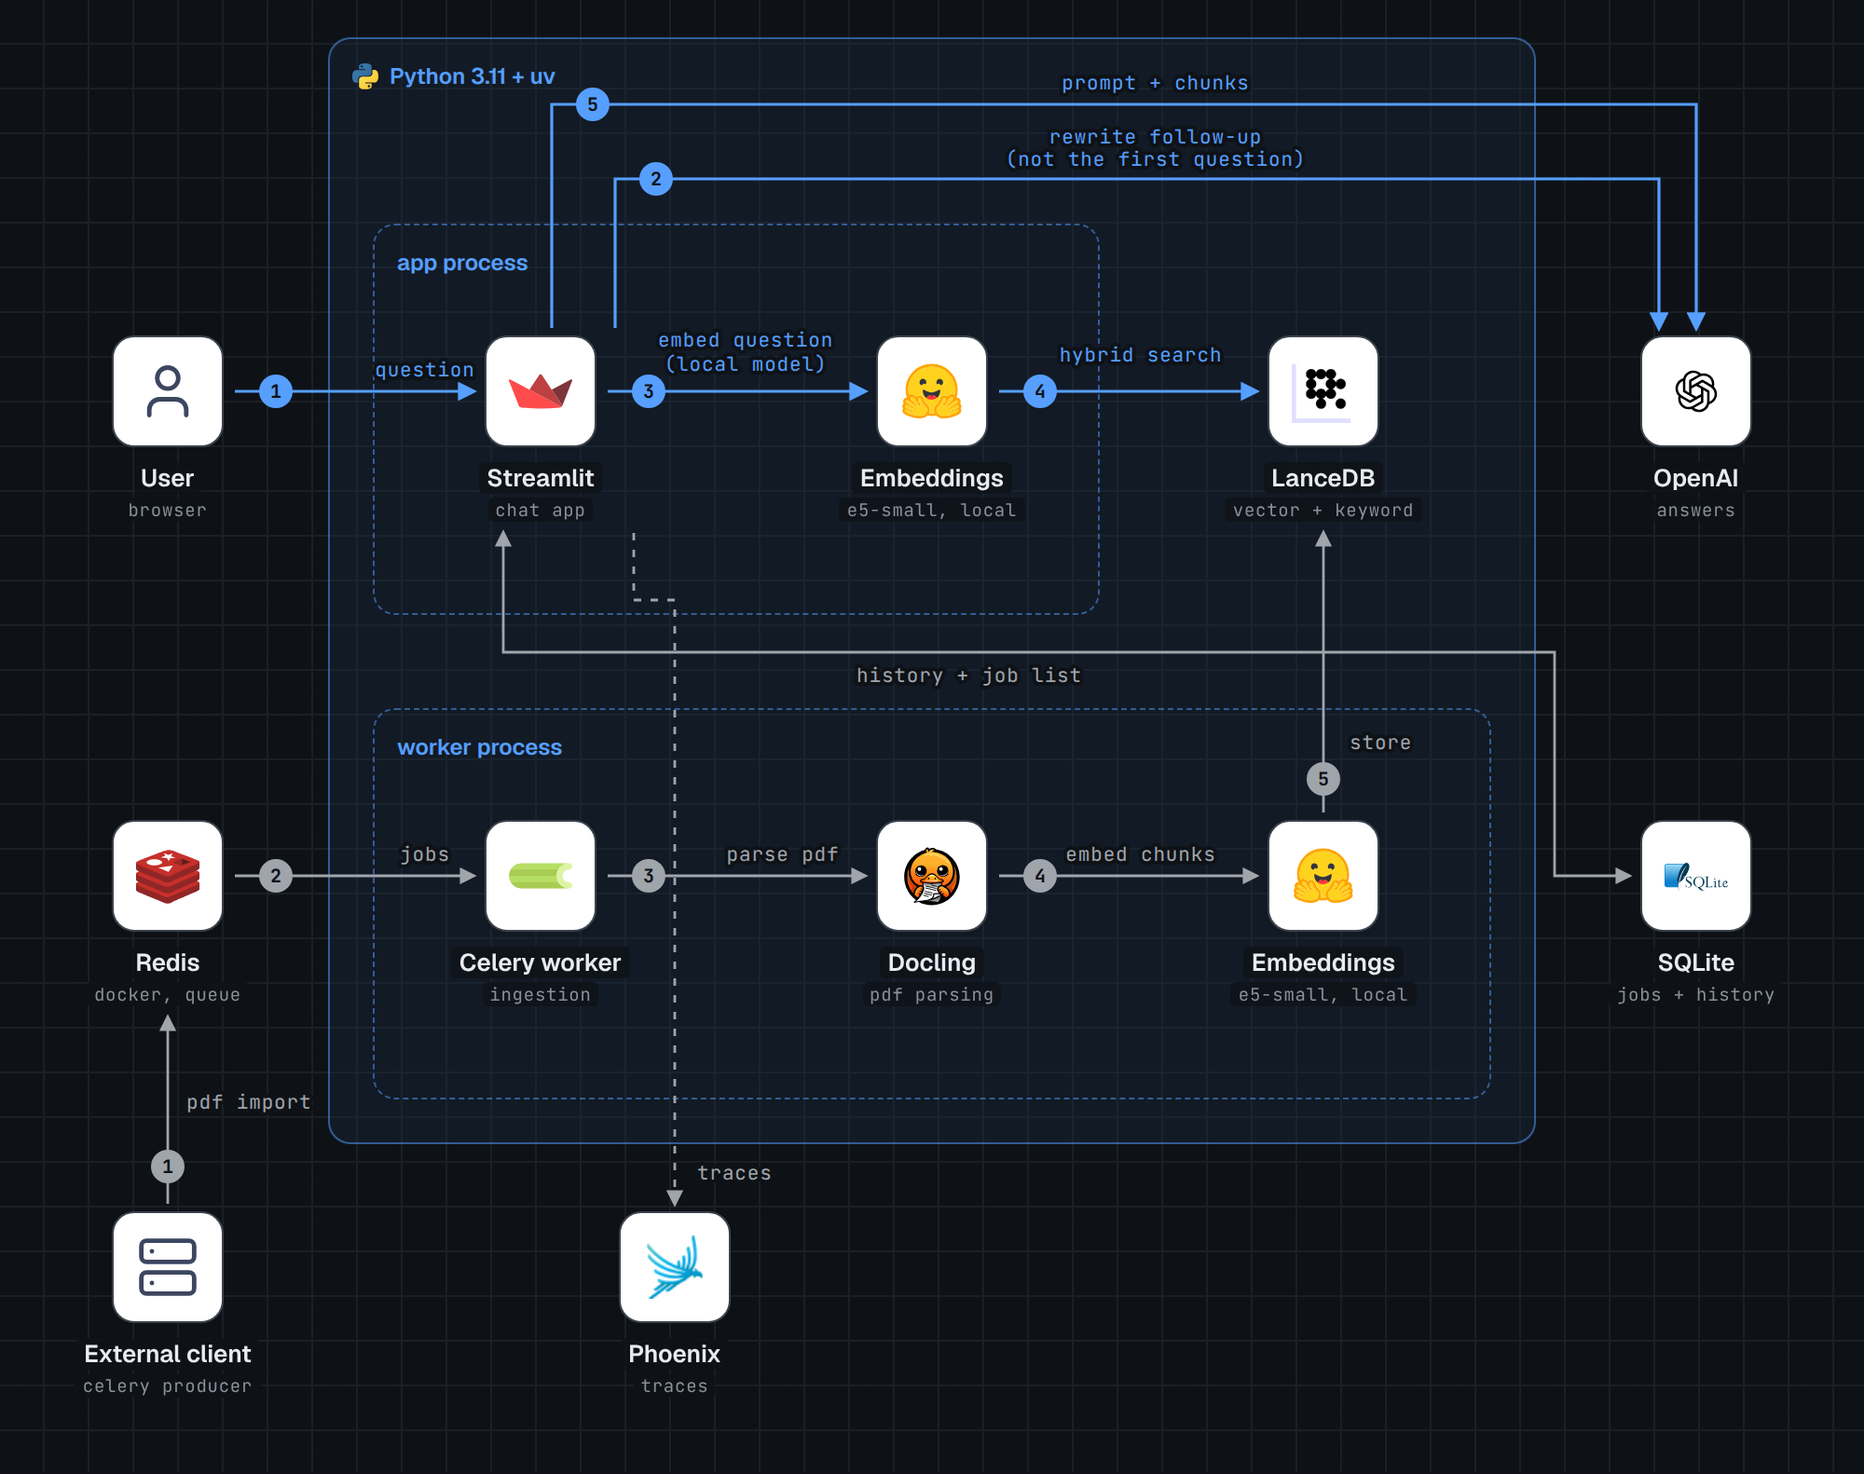
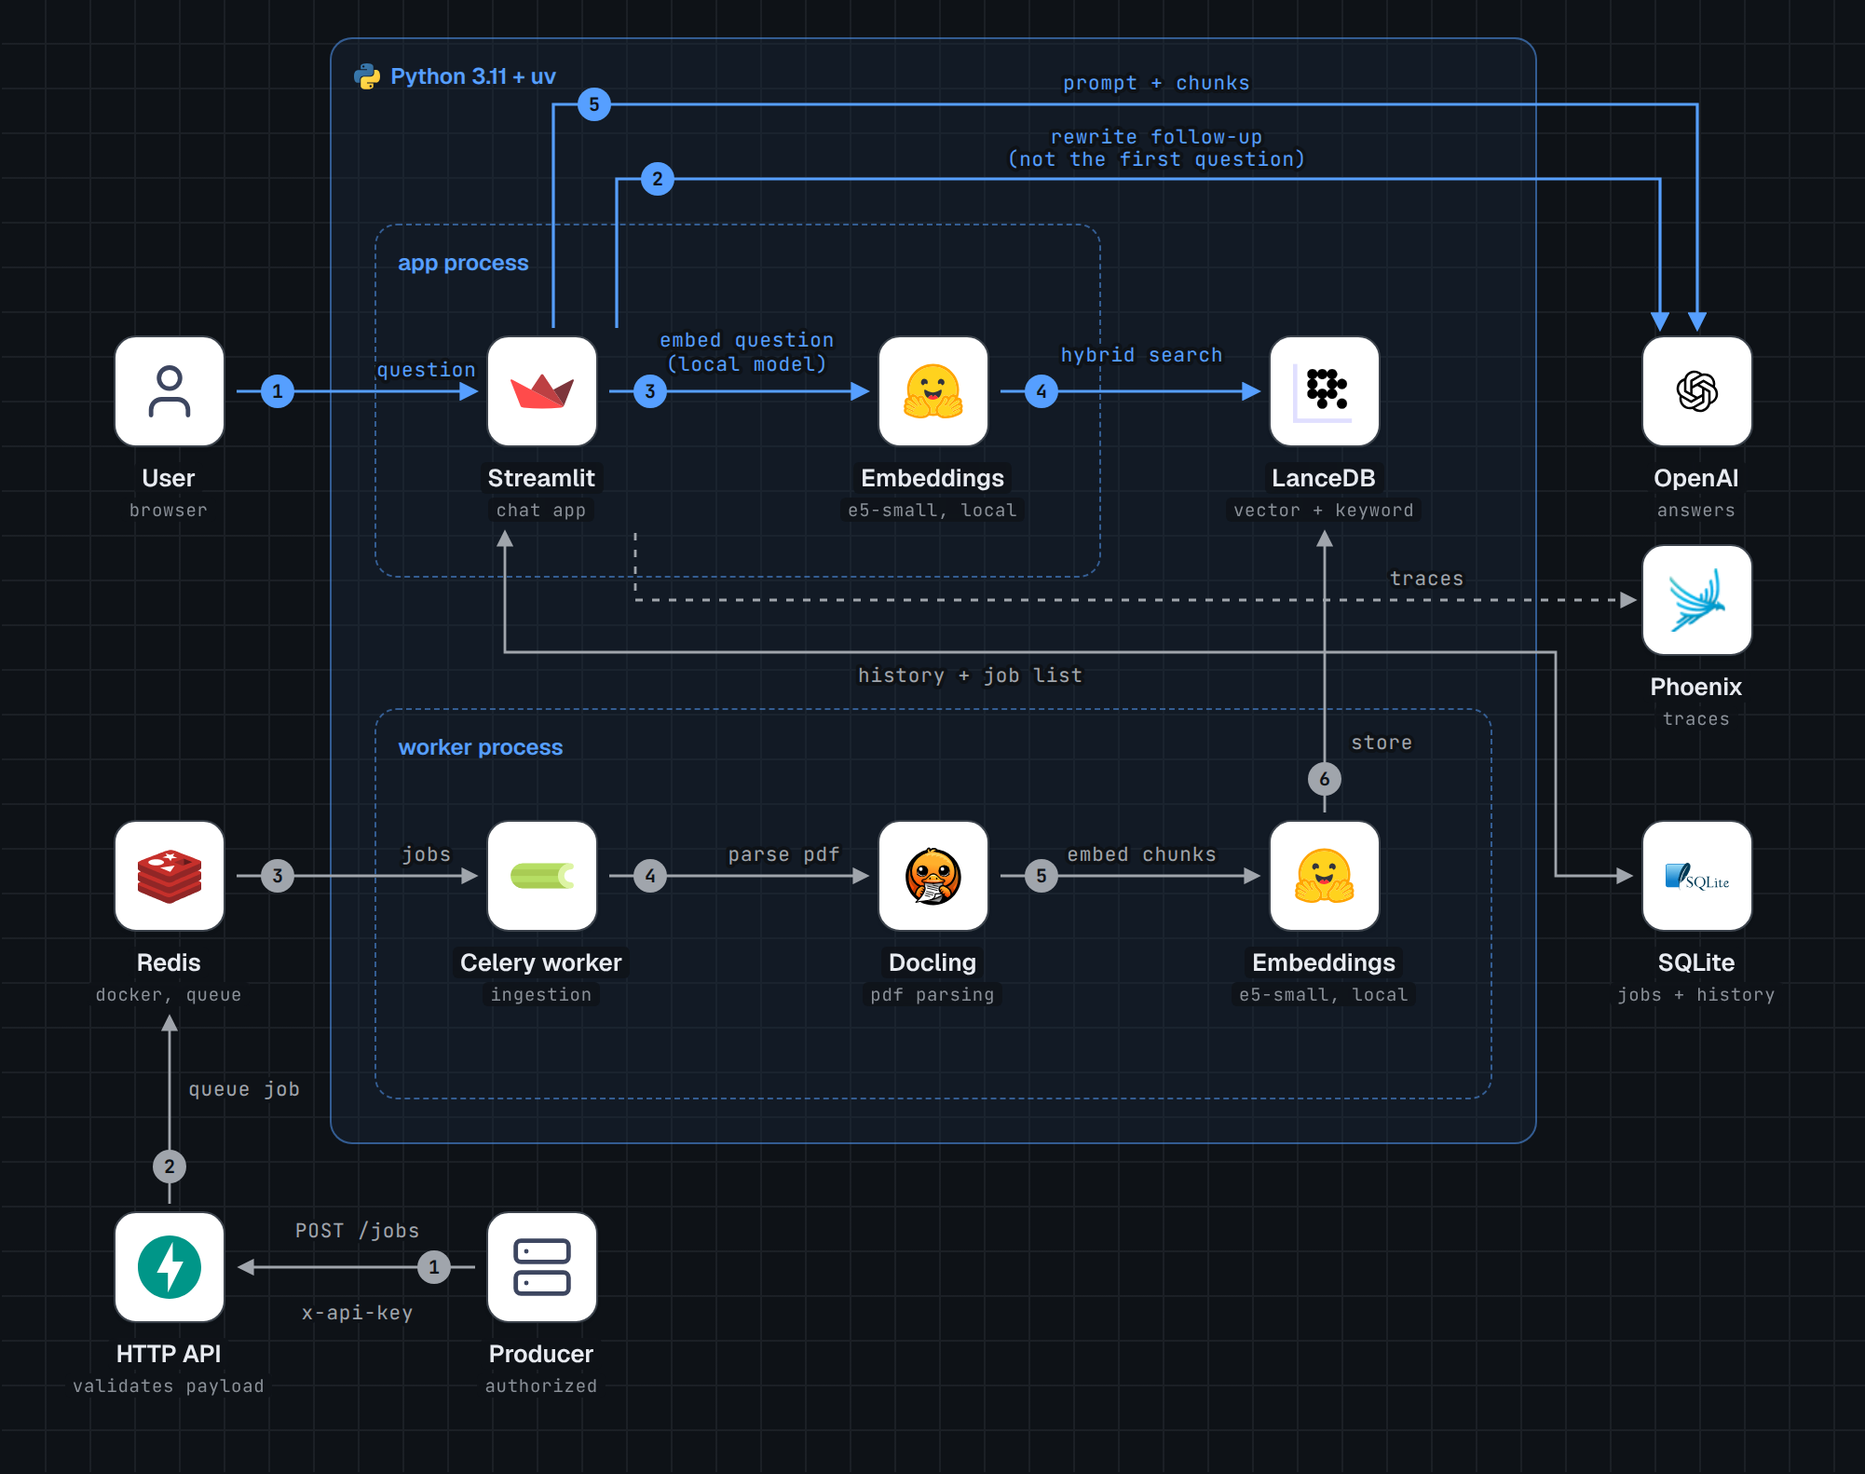
Add an API-key protected HTTP endpoint to queue jobs and keep Redis internal

diff --git a/diagrams/rag-stack.html b/diagrams/rag-stack.html
@@ -188,7 +188,7 @@ path.aws { stroke: var(--color-ink); stroke-width:1.6; fill:none; }
     <div class="group gb" style="left:176px; top:20px; width:648px; height:594px;">
[1 lines of base64/hex data omitted]
     </div>
-    <div class="group gb sub" style="left:200px; top:120px; width:390px; height:210px;">
+    <div class="group gb sub" style="left:200px; top:120px; width:390px; height:190px;">
       <div class="g-label">app process</div>
     </div>
     <div class="group gb sub" style="left:200px; top:380px; width:600px; height:210px;">
@@ -217,7 +217,10 @@ path.aws { stroke: var(--color-ink); stroke-width:1.6; fill:none; }
       <text class="el a" x="620" y="77" text-anchor="middle">rewrite follow-up</text>
       <text class="el a" x="620" y="89" text-anchor="middle">(not the first question)</text>
       <path class="n" d="M90 646 V546" marker-end="url(#ar)"/>
-      <text class="el" x="100" y="595">pdf import</text>
+      <text class="el" x="100" y="588">queue job</text>
+      <path class="n" d="M254 680 H128" marker-end="url(#ar)"/>
+      <text class="el" x="191" y="664" text-anchor="middle">POST /jobs</text>
+      <text class="el" x="191" y="708" text-anchor="middle">x-api-key</text>
       <path class="n" d="M126 470 H254" marker-end="url(#ar)"/>
       <text class="el" x="228" y="462" text-anchor="middle">jobs</text>
       <path class="n" d="M326 470 H464" marker-end="url(#ar)"/>
@@ -228,18 +231,19 @@ path.aws { stroke: var(--color-ink); stroke-width:1.6; fill:none; }
       <text class="el" x="724" y="402">store</text>
       <path class="n" d="M270 286 V350 H834 V470 H874" marker-start="url(#ar)" marker-end="url(#ar)"/>
       <text class="el" x="520" y="366" text-anchor="middle">history + job list</text>
-      <path class="n dash" d="M340 286 V322 H362 V646" marker-end="url(#ar)"/>
-      <text class="el" x="374" y="633">traces</text>
+      <path class="n dash" d="M340 286 V322 H876" marker-end="url(#ar)"/>
+      <text class="el" x="765" y="314" text-anchor="middle">traces</text>
       <circle class="bd a" cx="148" cy="210" r="9"/><text class="bn" x="148" y="210">1</text>
       <circle class="bd a" cx="352" cy="96" r="9"/><text class="bn" x="352" y="96">2</text>
       <circle class="bd a" cx="348" cy="210" r="9"/><text class="bn" x="348" y="210">3</text>
       <circle class="bd a" cx="558" cy="210" r="9"/><text class="bn" x="558" y="210">4</text>
       <circle class="bd a" cx="318" cy="56" r="9"/><text class="bn" x="318" y="56">5</text>
-      <circle class="bd" cx="90" cy="626" r="9"/><text class="bn" x="90" y="626">1</text>
-      <circle class="bd" cx="148" cy="470" r="9"/><text class="bn" x="148" y="470">2</text>
-      <circle class="bd" cx="348" cy="470" r="9"/><text class="bn" x="348" y="470">3</text>
-      <circle class="bd" cx="558" cy="470" r="9"/><text class="bn" x="558" y="470">4</text>
-      <circle class="bd" cx="710" cy="418" r="9"/><text class="bn" x="710" y="418">5</text>
+      <circle class="bd" cx="90" cy="626" r="9"/><text class="bn" x="90" y="626">2</text>
+      <circle class="bd" cx="232" cy="680" r="9"/><text class="bn" x="232" y="680">1</text>
+      <circle class="bd" cx="148" cy="470" r="9"/><text class="bn" x="148" y="470">3</text>
+      <circle class="bd" cx="348" cy="470" r="9"/><text class="bn" x="348" y="470">4</text>
+      <circle class="bd" cx="558" cy="470" r="9"/><text class="bn" x="558" y="470">5</text>
+      <circle class="bd" cx="710" cy="418" r="9"/><text class="bn" x="710" y="418">6</text>
     </svg>
 
     <div class="node" style="left:24px;top:180px">
@@ -283,10 +287,14 @@ path.aws { stroke: var(--color-ink); stroke-width:1.6; fill:none; }
       <div class="name"><span>SQLite</span></div><div class="role"><span>jobs + history</span></div>
     </div>
     <div class="node" style="left:24px;top:650px">
[1 lines of base64/hex data omitted]
-      <div class="name"><span>External client</span></div><div class="role"><span>celery producer</span></div>
[1 lines of base64/hex data omitted]
+      <div class="name"><span>HTTP API</span></div><div class="role"><span>validates payload</span></div>
     </div>
-    <div class="node" style="left:296px;top:650px">
+    <div class="node" style="left:224px;top:650px">
[1 lines of base64/hex data omitted]
+      <div class="name"><span>Producer</span></div><div class="role"><span>authorized</span></div>
+    </div>
+    <div class="node" style="left:844px;top:292px">
[1 lines of base64/hex data omitted]
       <div class="name"><span>Phoenix</span></div><div class="role"><span>traces</span></div>
     </div>
@@ -297,12 +305,12 @@ path.aws { stroke: var(--color-ink); stroke-width:1.6; fill:none; }
     <span><span class="sw"></span>request path</span>
     <span><span class="sw n"></span>internal</span>
     <span><span class="sw n dash"></span>dev / deploy</span>
-    <span>grey 1-5: add a PDF</span>
+    <span>grey 1-6: add a PDF</span>
     <span>blue 1-5: ask a question</span>
   </div>
 
   <div class="foot">
-    <span>rag-pipeline: Streamlit, Celery, Redis, Docling, LanceDB, SQLite, OpenAI, Phoenix</span>
+    <span>rag-pipeline: Streamlit, FastAPI, Celery, Redis, Docling, LanceDB, SQLite, OpenAI, Phoenix</span>
     <span>icons: svgl / devicon / Lucide / project repos · made with <a href="https://github.com/caru-ini/stack-diagram" target="_blank" rel="noopener">stack-diagram</a></span>
   </div>
 

diff --git a/tests/test_pipeline.py b/tests/test_pipeline.py
@@ -1013,3 +1013,59 @@ def test_cli_ingest_keeps_a_copy_in_the_tenant_folder_like_a_queued_job(pdf, mon
     with pytest.raises(Exception):
         cli.main()
     assert [p.name for p in pdf_dir(T1).iterdir()] == ["manual.pdf"]
+
+
+@pytest.fixture
+def api(monkeypatch, tmp_db):
+    import importlib
+
+    from fastapi.testclient import TestClient
+
+    monkeypatch.setenv("RAG_API_KEY", "k" * 24)
+    import rag.api
+
+    mod = importlib.reload(rag.api)
+    queued = []
+    monkeypatch.setattr(mod, "tenants", lambda: [T1])
+    monkeypatch.setattr(mod, "submit_url", lambda t, u: queued.append((t, u)) or "job1")
+    return TestClient(mod.app), queued
+
+
+GOOD = {"tenant": T1, "url": "https://files.example.com/a.pdf"}
+KEY = {"x-api-key": "k" * 24}
+
+
+def test_api_queues_a_valid_payload(api):
+    client, queued = api
+    r = client.post("/jobs", json=GOOD, headers=KEY)
+    assert r.status_code == 202 and r.json() == {"job_id": "job1"} and queued == [(T1, GOOD["url"])]
+
+
+@pytest.mark.parametrize("headers", [{}, {"x-api-key": "wrong"}, {"x-api-key": ""}])
+def test_api_refuses_a_missing_or_wrong_key(api, headers):
+    client, queued = api
+    assert client.post("/jobs", json=GOOD, headers=headers).status_code == 401 and not queued
+
+
+@pytest.mark.parametrize("body", [
+    {**GOOD, "tenant": "not-a-uuid"},
+    {**GOOD, "url": "ftp://host/a.pdf"},
+    {**GOOD, "url": "https://user:pw@host/a.pdf"},
+    {**GOOD, "url": "https://host/" + "a" * 2100},
+    {**GOOD, "extra": 1},
+    {"tenant": T1},
+    {**GOOD, "tenant": T2},  # a valid UUID that is not a known company
+])
+def test_api_rejects_a_bad_payload(api, body):
+    client, queued = api
+    assert client.post("/jobs", json=body, headers=KEY).status_code == 422 and not queued
+
+
+def test_api_will_not_start_without_a_key(monkeypatch):
+    import importlib
+
+    import rag.api
+
+    monkeypatch.setenv("RAG_API_KEY", "short")
+    with pytest.raises(RuntimeError):
+        importlib.reload(rag.api)

diff --git a/src/rag/api.py b/src/rag/api.py
@@ -1,0 +1,50 @@
+"""HTTP front door for the queue: POST /jobs with {"tenant", "url"} and an x-api-key header. Redis is never exposed.
+The payload is validated here; the worker still checks the URL itself before it downloads anything."""
+import os
+import secrets
+from urllib.parse import urlsplit
+from uuid import UUID
+
+from fastapi import Depends, FastAPI, Header, HTTPException
+from pydantic import BaseModel, ConfigDict, Field, field_validator
+
+from rag.jobs import submit_url
+from rag.store import tenants
+
+API_KEY = os.environ.get("RAG_API_KEY", "")
+if len(API_KEY) < 16:
+    raise RuntimeError("set RAG_API_KEY (at least 16 characters) to start the API")
+
+app = FastAPI(title="rag ingestion queue", docs_url=None, redoc_url=None, openapi_url=None)
+
+
+class Job(BaseModel):
+    model_config = ConfigDict(extra="forbid")
+    tenant: UUID
+    url: str = Field(max_length=2048)
+
+    @field_validator("url")
+    @classmethod
+    def _http_url(cls, v: str) -> str:
+        u = urlsplit(v)
+        if u.scheme not in ("http", "https") or not u.hostname or u.username or u.password:
+            raise ValueError("must be an http(s) URL without credentials")
+        return v
+
+
+def _key(x_api_key: str = Header("")) -> None:
+    if not secrets.compare_digest(x_api_key.encode(), API_KEY.encode()):
+        raise HTTPException(401, "invalid or missing x-api-key")
+
+
+@app.post("/jobs", status_code=202, dependencies=[Depends(_key)])
+def create_job(job: Job) -> dict:
+    tenant = str(job.tenant)
+    if tenant not in tenants():
+        raise HTTPException(422, "unknown tenant: add it to tenants.json first")
+    try:
+        return {"job_id": submit_url(tenant, job.url)}
+    except ValueError as e:
+        raise HTTPException(422, str(e))
+    except Exception:
+        raise HTTPException(503, "the queue is unavailable")

diff --git a/README.md b/README.md
@@ -18,7 +18,7 @@ I built it with the help of Claude Code, but I directed the architecture and cho
 
 <picture>
   <source media="(prefers-color-scheme: dark)" srcset="diagrams/rag-stack-dark.png">
-  <img alt="Stack diagram: the Streamlit app and the Celery worker each embed with a local model; the worker parses PDFs with Docling into LanceDB, Redis carries the queue, SQLite keeps jobs and chat history, OpenAI rewrites follow-ups and answers, Phoenix collects traces" src="diagrams/rag-stack.png">
+  <img alt="Stack diagram: the Streamlit app and the Celery worker each embed with a local model; the worker parses PDFs with Docling into LanceDB, an API-key protected HTTP API validates jobs and puts them on the Redis queue, SQLite keeps jobs and chat history, OpenAI rewrites follow-ups and answers, Phoenix collects traces" src="diagrams/rag-stack.png">
 </picture>
 
 ## Quick start (Docker)
@@ -156,21 +156,31 @@ Disk space, measured:
 
 ## Ingestion queue
 
-A PDF is submitted as a small message and the call returns at once. A separate worker process downloads it, then does the parsing and embedding. The sidebar of the app lists each job as queued, running, retrying, done, failed or cancelled.
+A PDF is submitted as a small job and the call returns at once. A separate worker process downloads it, then does the parsing and embedding. The sidebar of the app lists each job as queued, running, retrying, done, failed or cancelled.
 
 The queue is Celery with Redis as the broker and the result backend (`RAG_REDIS_URL` in `.env`). Docker Compose starts Redis, the app and the worker (`rag worker`) together. The worker takes one job at a time, in a single process. LanceDB allows a single writer, and ingesting a PDF peaks at about 4 GB of RAM, so do not run more than one worker.
 
 ### Submitting
 
-`scripts/produce.py` is a throwaway producer that puts URLs on the queue:
+Redis is not published: only the containers of the stack can reach it. Everything else submits a job through the HTTP API, which validates the payload and puts it on the queue. Set `RAG_API_KEY` in `.env` (at least 16 characters; the API refuses to start without it), and the API listens on `127.0.0.1:8010`:
+
+```
+curl -X POST http://localhost:8010/jobs \
+  -H "x-api-key: $RAG_API_KEY" -H "content-type: application/json" \
+  -d '{"tenant": "<company uuid>", "url": "https://files.example.com/contract.pdf"}'
+```
+
+It answers `202` with `{"job_id": "..."}`. `401` means the key is missing or wrong, `422` means the payload is not valid (the tenant is not a UUID or not a configured company, the URL is not `http(s)` or is longer than 2048 characters, it has credentials, or the body has an extra field), and `503` means the queue is down. The key travels in a header, so put TLS in front of the API (a reverse proxy such as Caddy) before you publish it beyond `localhost`.
+
+`scripts/produce.py` does the same from inside the stack, without the API:
 
 ```
 docker compose exec app python scripts/produce.py --tenant <company uuid> https://files.example.com/contract.pdf
 ```
 
-The message is the task `rag.ingest` with two JSON arguments, `tenant` and `url`. The PDF never travels in the message: the worker downloads it, ingests it, and keeps it in the tenant's folder (the app needs it to show the cited page). The PDF is kept only if ingestion worked. A job that fails leaves no file behind, and a failed job never overwrites the PDF of a document that was ingested earlier. Submitting a URL with the same file name again replaces that document once the new version has been ingested. Jobs queued while the worker is stopped wait in Redis and run when it starts.
+The PDF never travels with the job, which holds only the tenant and the URL: the worker downloads it, ingests it, and keeps it in the tenant's folder (the app needs it to show the cited page). The PDF is kept only if ingestion worked. A job that fails leaves no file behind, and a failed job never overwrites the PDF of a document that was ingested earlier. Submitting a URL with the same file name again replaces that document once the new version has been ingested. Jobs queued while the worker is stopped wait in Redis and run when it starts.
 
-Job states are kept in a small SQLite file (`data/jobs.sqlite`), because Celery's result backend cannot list jobs by tenant. A producer on another machine creates no row, so such a job appears in the sidebar once the worker starts it.
+Job states are kept in a small SQLite file (`data/jobs.sqlite`), because Celery's result backend cannot list jobs by tenant. A job that did not come through the app or the API creates no row, so it appears in the sidebar once the worker starts it.
 
 ### What the worker accepts
 
@@ -181,13 +191,12 @@ The URL comes from a producer, so the worker treats it as hostile (this is what 
 - The file must start with `%PDF-` and stay below `RAG_MAX_PDF_MB` (50 by default). The download has a time limit.
 - Exception: to fetch from a server on your own network (a MinIO, a NAS), list its host name in `RAG_FETCH_ALLOW`, comma separated, for example `RAG_FETCH_ALLOW=minio.internal,files.lan`. Only those exact host names skip the public-address check, and they may also use `http` and any port. A redirect to any other host is still checked as usual.
 
-A job that can never succeed (a blocked address, a 4xx answer, not a PDF, no extractable text, a malformed message) is marked failed at once and not retried. A temporary problem (timeout, 5xx, connection error) and any other error is retried with a growing delay, up to `RAG_JOB_ATTEMPTS` attempts in total. A job that fails permanently still shows as a successful Celery task, because the worker handled it: the real outcome is in the job status.
+A job that can never succeed (a blocked address, a 4xx answer, not a PDF, no extractable text, a malformed job) is marked failed at once and not retried. A temporary problem (timeout, 5xx, connection error) and any other error is retried with a growing delay, up to `RAG_JOB_ATTEMPTS` attempts in total. A job that fails permanently still shows as a successful Celery task, because the worker handled it: the real outcome is in the job status.
 
 ### Running Redis safely
 
-- Messages use JSON only, never pickle, so a message cannot run code in the worker.
 - The queue is database 0 and the job results are database 1 of the same server (`RAG_REDIS_RESULTS_URL` changes that). Databases separate the data, so clearing one leaves the other, but they are not a security boundary: a password and the `noeviction` setting apply to the whole server. Redis Cluster has only database 0, so set `RAG_REDIS_RESULTS_URL` there.
-- Redis is the trust boundary. Anyone who can write to it can queue a job for any tenant, because the tenant is part of the message. Keep Redis on a private network or `127.0.0.1`, set a password, and give a producer an ACL user that may only add to the queue.
+- Redis is the trust boundary. Anyone who can write to it can queue a job for any tenant. Compose does not publish it, so only the stack's containers reach it, and the HTTP API (with its `x-api-key`) is the way in for everyone else. If you publish Redis anyway, set a password and give producers an ACL user that may only add to the queue.
 - Turn on persistence (`appendonly yes`), or a Redis restart empties the queue. Set `maxmemory-policy noeviction` so Redis never drops queued jobs to free memory.
 - A job that is not acknowledged within `RAG_VISIBILITY_SECONDS` (one hour by default) is handed out again, so keep it above your slowest PDF. Reprocessing is harmless, because ingesting a PDF replaces its chunks.
 
@@ -202,6 +211,7 @@ All settings are environment variables, read from `.env`. Only `OPENAI_API_KEY` 
 | `OPENAI_REASONING_EFFORT` | `low` | `none`, `low`, `medium`, `high`, `xhigh` or `max`. Reasoning tokens are billed as output |
 | `RAG_DEFAULT_TENANT` | first company | UUID of the company the app opens on |
 | `RAG_TENANTS_FILE` | `tenants.json` | The companies: a UUID and a display name each |
+| `RAG_API_KEY` | none, required for the API | The `x-api-key` value the HTTP API asks for, at least 16 characters |
 | `RAG_REDIS_URL` | `redis://localhost:6379/0` | The queue (Celery broker) |
 | `RAG_REDIS_RESULTS_URL` | database 1 of the same server | Job results |
 | `RAG_JOB_ATTEMPTS` | `3` | Attempts per job, the first run included |
